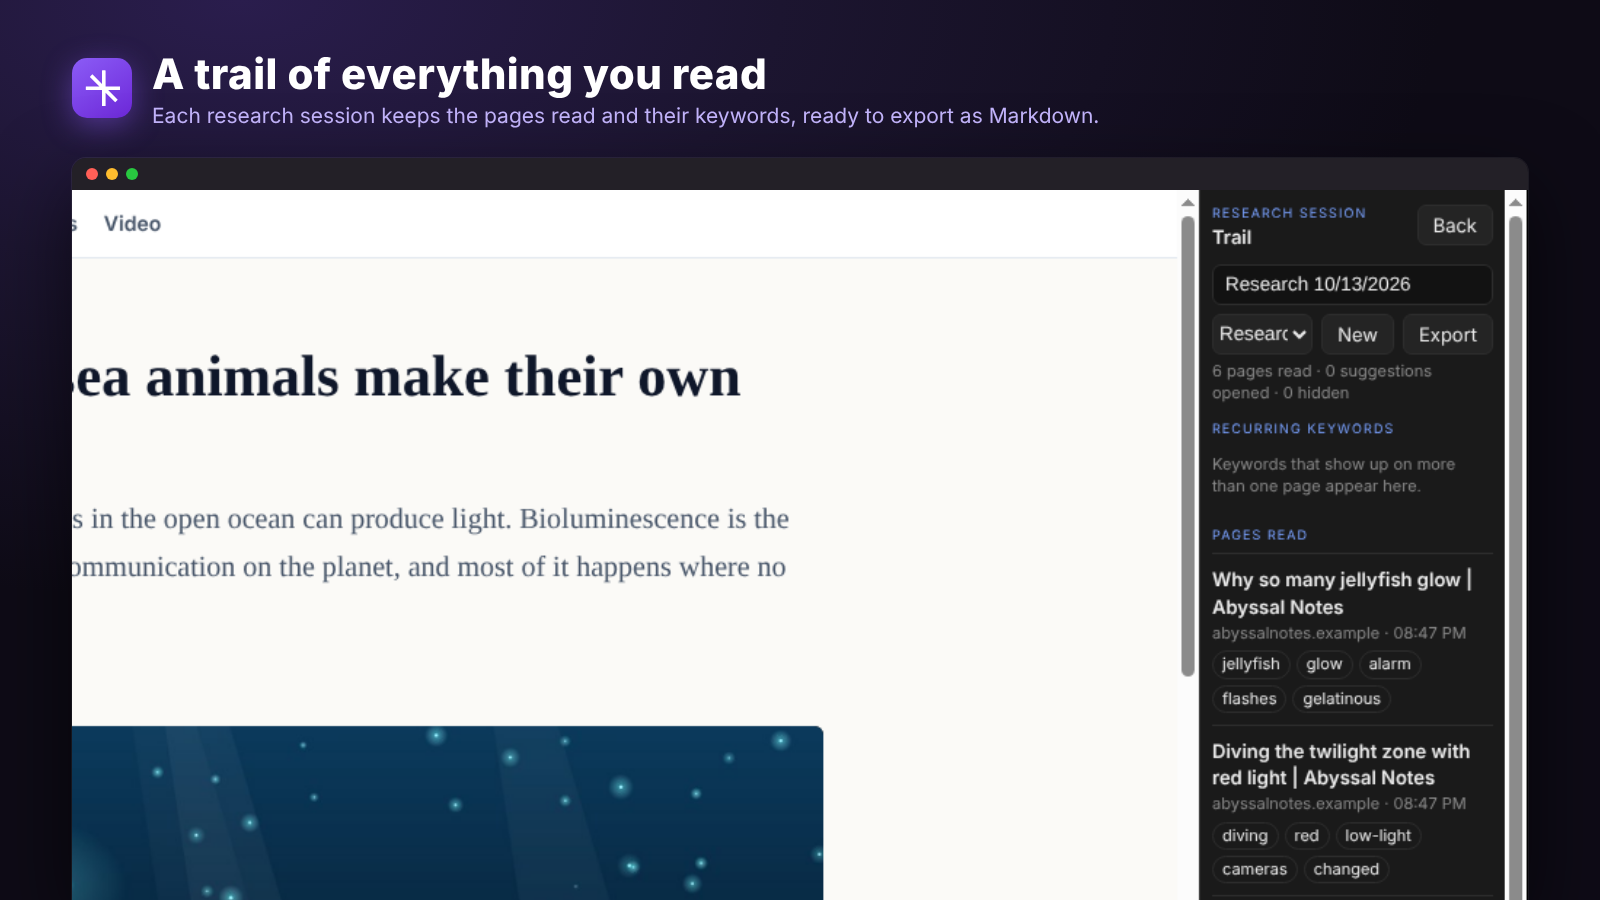
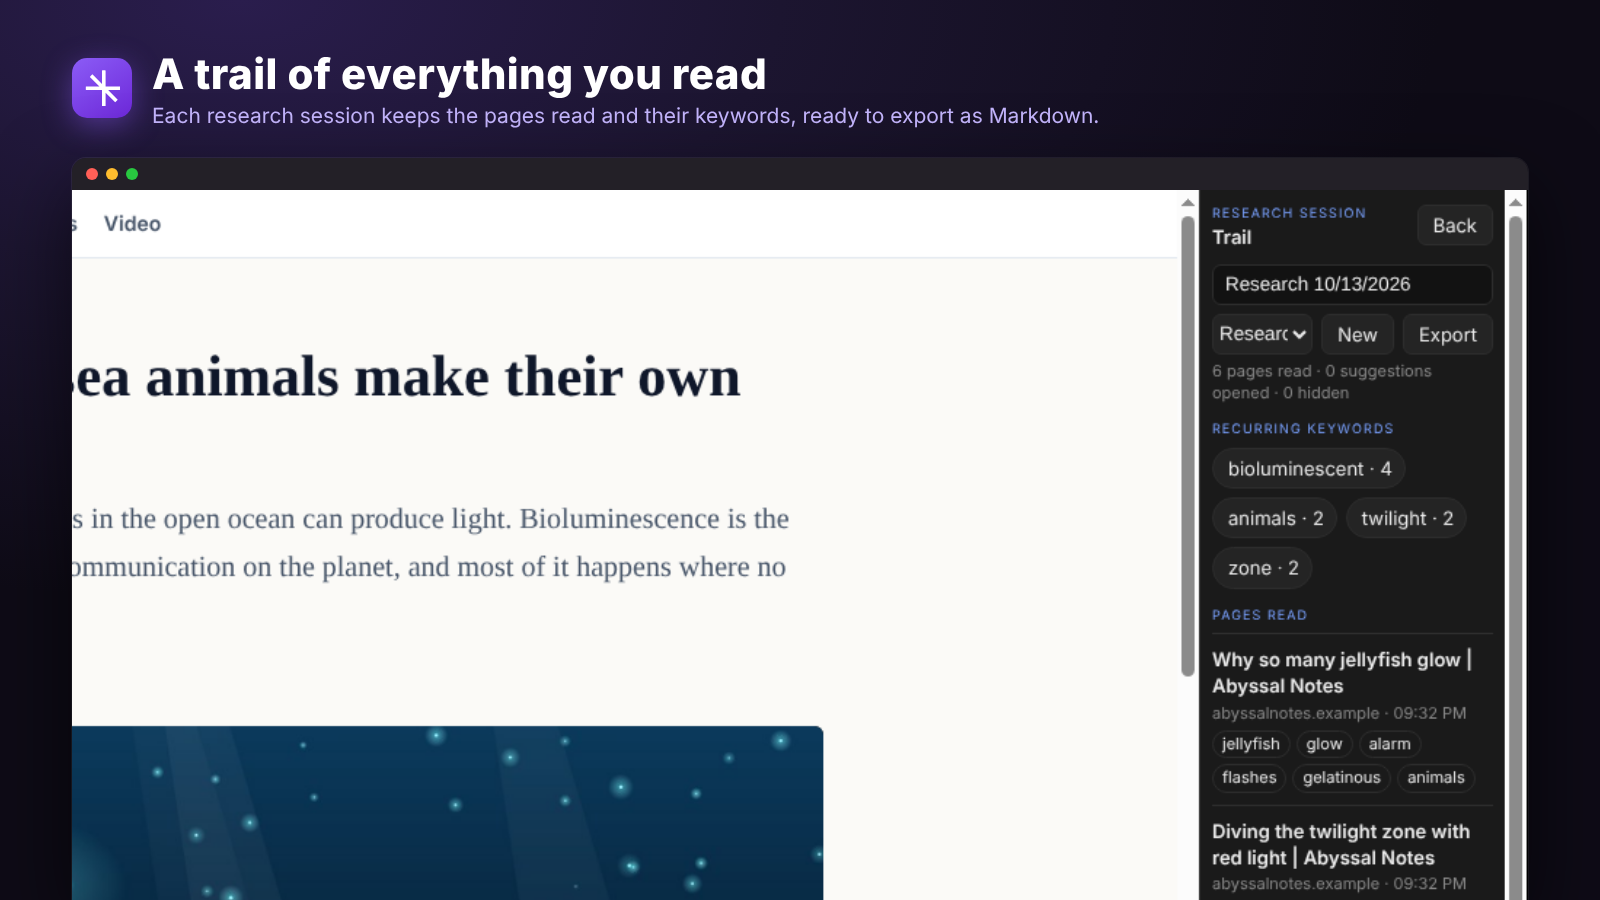
README: agents line; refreshed screenshots with recurring keywords
Claude-Session: https://claude.ai/code/session_011V7Bv7WZ9Q92MZoNWYwevQ

Changed region(s): [[0.75, 0.4978, 0.9375, 0.9956]]

diff --git a/README.md b/README.md
@@ -14,7 +14,7 @@ Built with Electron and plain JavaScript, with an Expo mobile app (iPhone and An
 | **Mosaic: four tabs playing at once.** Tile tabs in a grid. Media starts on its own and up to four tabs play together; "Sound: all" lets you hear every one of them. Clicking a video scrolls it to the middle. | ![Four video tabs in Mosaic](docs/media/mosaic.png) |
 | **Research trail.** Every page read in a session, with its top keywords, the keywords that recur across pages, and an export to Markdown. | ![Research trail panel](docs/media/trail.png) |
 
-Also: per-site behaviour rules, ad and tracker blocking, bookmarks, picture in picture, trackpad and mouse gestures, Ask AI about a page with a local model, and a separate Google window for Google sign-in. The full list is in [docs/07-features.md](docs/07-features.md).
+Also: a read-only MCP server so AI agents such as Claude Code can search, read pages and read your research trails ([details](#ai-agents-mcp)), per-site behaviour rules, ad and tracker blocking, bookmarks, picture in picture, trackpad and mouse gestures, Ask AI about a page with a local model, and a separate Google window for Google sign-in. The full list is in [docs/07-features.md](docs/07-features.md).
 
 The screenshots use a fictional site made for them ([docs/media/src](docs/media/src)), so they can be rebuilt with `node docs/media/src/make-shots.js`.
 
